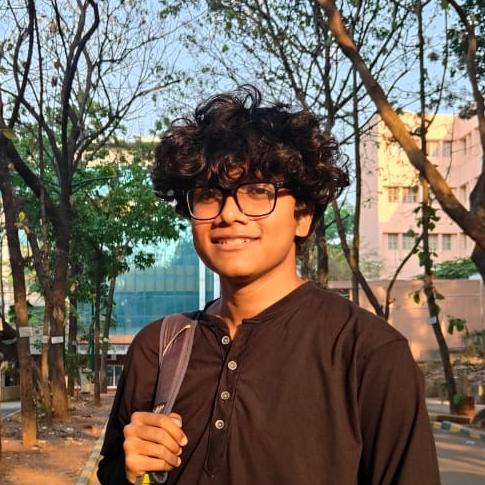
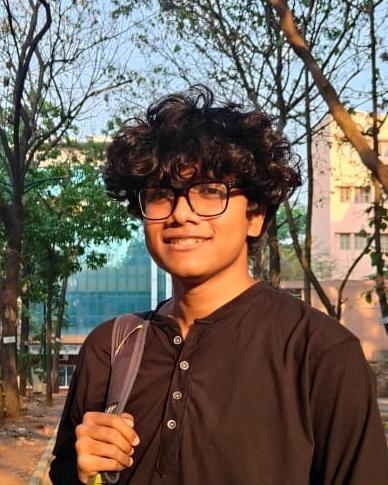
Physically crop images to 4:5 aspect ratio without resizing, fixing GitHub stretch issue

diff --git a/DEMO/README.md b/DEMO/README.md
@@ -2112,42 +2112,42 @@ This distinction becomes especially significant for dynamic amplifier design, wh
 ## About the Authors
 
 <p style="text-align: justify; margin-bottom: 20px;">
-<a href="https://www.linkedin.com/in/nithin-purushothama-5b236113b" target="_blank"><img src="https://raw.githubusercontent.com/chennakeshavadasa/CAC/main/DEMO/assets/NithinPurushothama_pic.jpg?v=4" align="left" style="width: 120px; height: 150px; margin-right: 15px; border-radius: 8px; object-fit: cover; object-position: top;" /></a>
+<a href="https://www.linkedin.com/in/nithin-purushothama-5b236113b" target="_blank"><img src="https://raw.githubusercontent.com/chennakeshavadasa/CAC/main/DEMO/assets/NithinPurushothama_pic.jpg?v=5" align="left" style="width: 120px; margin-right: 15px; border-radius: 8px;" /></a>
 <strong>Nithin Purushothama</strong> received the B.Tech. degree in electronics and communication engineering from Visvesvaraya Technological University (VTU), India, in 2025. He is currently working as an Analog Design Engineer at Omni Design Technologies, Bengaluru, India. He previously worked as a Research Intern at the Low-Power Circuits and Systems (LP-CAS) Lab, IIT Gandhinagar, under the guidance of Prof. Madhav K. Pathak, where he worked on ring amplifiers and their applications in low-power LDOs. His research interests include high-speed and low-power data converters, dynamic and ring amplifiers, biomedical and wearable circuits, energy-efficient circuits for sensing and computation, algorithm–circuit co-design and emerging computing architectures. He is currently seeking Ph.D. opportunities for Fall 2027 in analog and mixed-signal integrated circuits and related areas.
 <br clear="all" />
 </p>
 <br>
 
 <p style="text-align: justify; margin-bottom: 20px;">
-<a href="https://www.linkedin.com/in/pramoda-s-r-9946891a2" target="_blank"><img src="https://raw.githubusercontent.com/chennakeshavadasa/CAC/main/DEMO/assets/Pramoda_SR_pic.jpg?v=4" align="left" style="width: 120px; height: 150px; margin-right: 15px; border-radius: 8px; object-fit: cover; object-position: top;" /></a>
+<a href="https://www.linkedin.com/in/pramoda-s-r-9946891a2" target="_blank"><img src="https://raw.githubusercontent.com/chennakeshavadasa/CAC/main/DEMO/assets/Pramoda_SR_pic.jpg?v=5" align="left" style="width: 120px; margin-right: 15px; border-radius: 8px;" /></a>
 <strong>Pramoda S R</strong> is currently working as an AI Engineer, with experience in machine learning, deep learning, computer vision, and AI-based application development. His research interests include artificial intelligence and deep learning, with an emphasis on computer vision, real-time inference systems, generative AI, and intelligent applications.
 <br clear="all" />
 </p>
 <br>
 
 <p style="text-align: justify; margin-bottom: 20px;">
-<a href="https://www.linkedin.com/search/results/all/?keywords=Suyajnaa%20Jagannath%20Gowda" target="_blank"><img src="https://raw.githubusercontent.com/chennakeshavadasa/CAC/main/DEMO/assets/Suyajnaa_Pic.jpeg?v=4" align="left" style="width: 120px; height: 150px; margin-right: 15px; border-radius: 8px; object-fit: cover; object-position: top;" /></a>
+<a href="https://www.linkedin.com/search/results/all/?keywords=Suyajnaa%20Jagannath%20Gowda" target="_blank"><img src="https://raw.githubusercontent.com/chennakeshavadasa/CAC/main/DEMO/assets/Suyajnaa_Pic.jpeg?v=5" align="left" style="width: 120px; margin-right: 15px; border-radius: 8px;" /></a>
 <strong>Suyajnaa Jagannath Gowda</strong> is currently pursuing the B.E. degree in electronics and communication engineering at The National Institute of Engineering, Mysore, India. Her research interests include analog and mixed-signal circuits, silicon photonics, optical sensing, embedded systems, machine learning, and signal processing. Her work includes silicon photonics-based micro-ring resonator gyroscopes, satellite telemetry analysis, MATLAB-based underwater acoustic systems, and ESP32-based intelligent IC testing.
 <br clear="all" />
 </p>
 <br>
 
 <p style="text-align: justify; margin-bottom: 20px;">
-<a href="https://www.linkedin.com/search/results/all/?keywords=Runpeng%20Gao" target="_blank"><img src="https://raw.githubusercontent.com/chennakeshavadasa/CAC/main/DEMO/assets/Runpeng_Gao_pic.jpeg?v=4" align="left" style="width: 120px; height: 150px; margin-right: 15px; border-radius: 8px; object-fit: cover; object-position: top;" /></a>
+<a href="https://www.linkedin.com/search/results/all/?keywords=Runpeng%20Gao" target="_blank"><img src="https://raw.githubusercontent.com/chennakeshavadasa/CAC/main/DEMO/assets/Runpeng_Gao_pic.jpeg?v=5" align="left" style="width: 120px; margin-right: 15px; border-radius: 8px;" /></a>
 <strong>Runpeng Gao</strong> received the M.S. degree from Nanjing University, Nanjing, China, in 2023. He is currently pursuing the Ph.D. degree in electrical and computer engineering at Oregon State University, Corvallis, OR, USA. His research interests include high-performance analog and mixed-signal integrated circuits, with an emphasis on high-resolution and high-speed analog-to-digital converters (ADCs) and low-dropout regulators (LDOs).
 <br clear="all" />
 </p>
 <br>
 
 <p style="text-align: justify; margin-bottom: 20px;">
-<a href="https://www.linkedin.com/search/results/all/?keywords=Praveen%20Kumar%20Venkatachala" target="_blank"><img src="https://raw.githubusercontent.com/chennakeshavadasa/CAC/main/DEMO/assets/Praveen_Kumar_pic.jpg?v=4" align="left" style="width: 120px; height: 150px; margin-right: 15px; border-radius: 8px; object-fit: cover; object-position: top;" /></a>
+<a href="https://www.linkedin.com/search/results/all/?keywords=Praveen%20Kumar%20Venkatachala" target="_blank"><img src="https://raw.githubusercontent.com/chennakeshavadasa/CAC/main/DEMO/assets/Praveen_Kumar_pic.jpg?v=5" align="left" style="width: 120px; margin-right: 15px; border-radius: 8px;" /></a>
 <strong>Praveen Kumar Venkatachala</strong> I am a PhD Graduate student from Oregon State University. I am presently working as a part of analog integrated circuits design group in AIS (Artificial Intelligence Solutions) division of Skyworks Solutions Inc. in Hillsboro, Oregon. We work on innovative and challenging analog system on chips (ASoCs) for smart speakers/microphones, gaming controllers, wired/wireless headsets and many more products involving audio and voice technology.
 <br clear="all" />
 </p>
 <br>
 
 <p style="text-align: justify; margin-bottom: 20px;">
-<a href="https://iitgn.ac.in/faculty/ee/fac-madhav" target="_blank"><img src="https://raw.githubusercontent.com/chennakeshavadasa/CAC/main/DEMO/assets/Madhav_K_Pathak_pic.jpg?v=4" align="left" style="width: 120px; height: 150px; margin-right: 15px; border-radius: 8px; object-fit: cover; object-position: top;" /></a>
+<a href="https://iitgn.ac.in/faculty/ee/fac-madhav" target="_blank"><img src="https://raw.githubusercontent.com/chennakeshavadasa/CAC/main/DEMO/assets/Madhav_K_Pathak_pic.jpg?v=5" align="left" style="width: 120px; margin-right: 15px; border-radius: 8px;" /></a>
 <strong>Madhav K. Pathak</strong> received the B.Tech. degree in electrical engineering from the Indian Institute of Technology Roorkee, Roorkee, India, in 2016, and the Ph.D. degree in microelectronics from Iowa State University, Ames, IA, USA, in 2022. He is currently an Assistant Professor in the Department of Electrical Engineering at the Indian Institute of Technology Gandhinagar, Gandhinagar, India. His research interests include power management integrated circuits, analog and mixed-signal integrated circuits, ambient micro-power energy harvesting, and IoT sensor systems, with an emphasis on low-power circuit design and energy-efficient power management for batteryless and low-power applications.
 <br clear="all" />
 </p>
